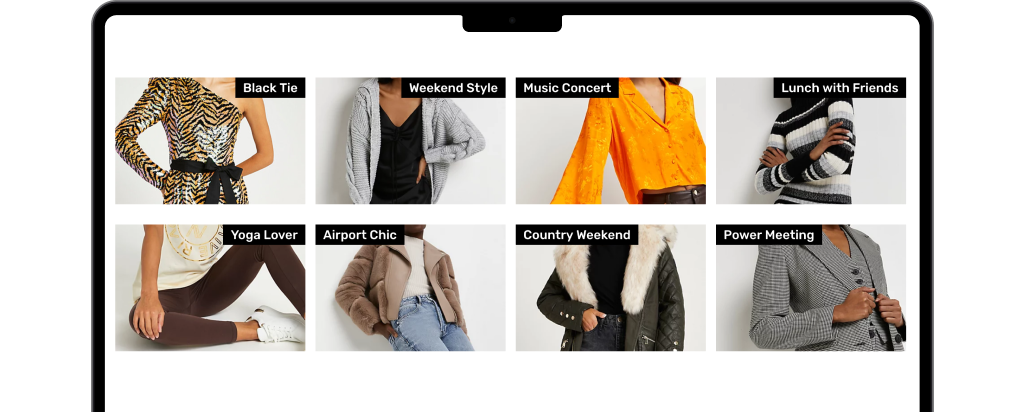
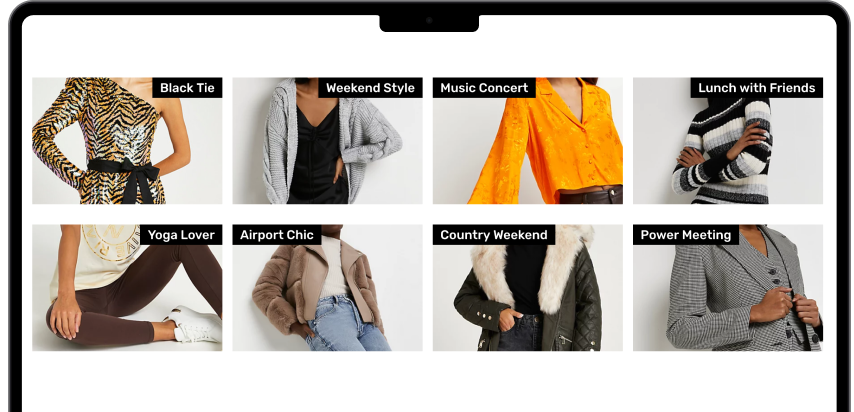
align product discovery sections

diff --git a/_sass/_objects.layout.scss b/_sass/_objects.layout.scss
@@ -18,37 +18,13 @@
 }
 
 .solution-products-predict,
-.solution-products-relevancy,
-.solution-products-conversion {
-  max-width: 1670px;
-
-  .feature__copy {
-    max-width: 540px;
-  }
-
+.solution-products-conversion,
+.solution-products-relevancy {
   .feature__image {
     justify-content: left;
-    max-width: 900px;
-
-    img {
-      width: 150%;
-      max-width: none;
-    }
   }
 }
 
-.solution-products-conversion {
-  justify-content: space-evenly;
-
-  .feature__image {
-    justify-content: center !important;
-
-    img {
-      width: 180%;
-      max-width: 180%;
-    }
-  }
-}
 
 .multi-columns {
   @include flexbox;
